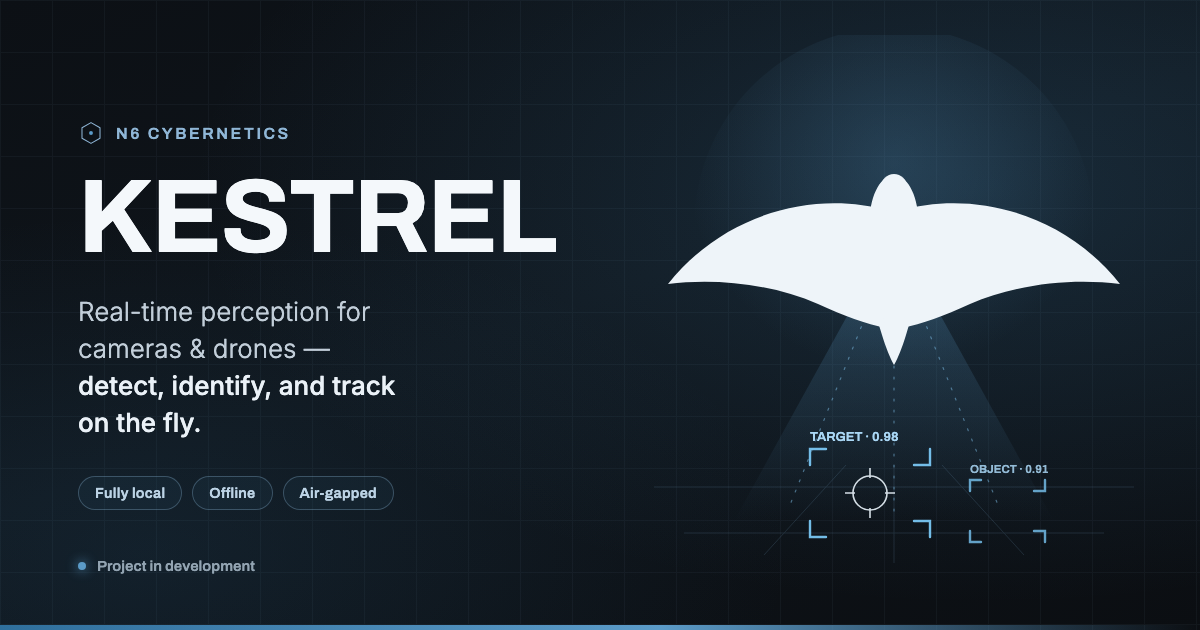
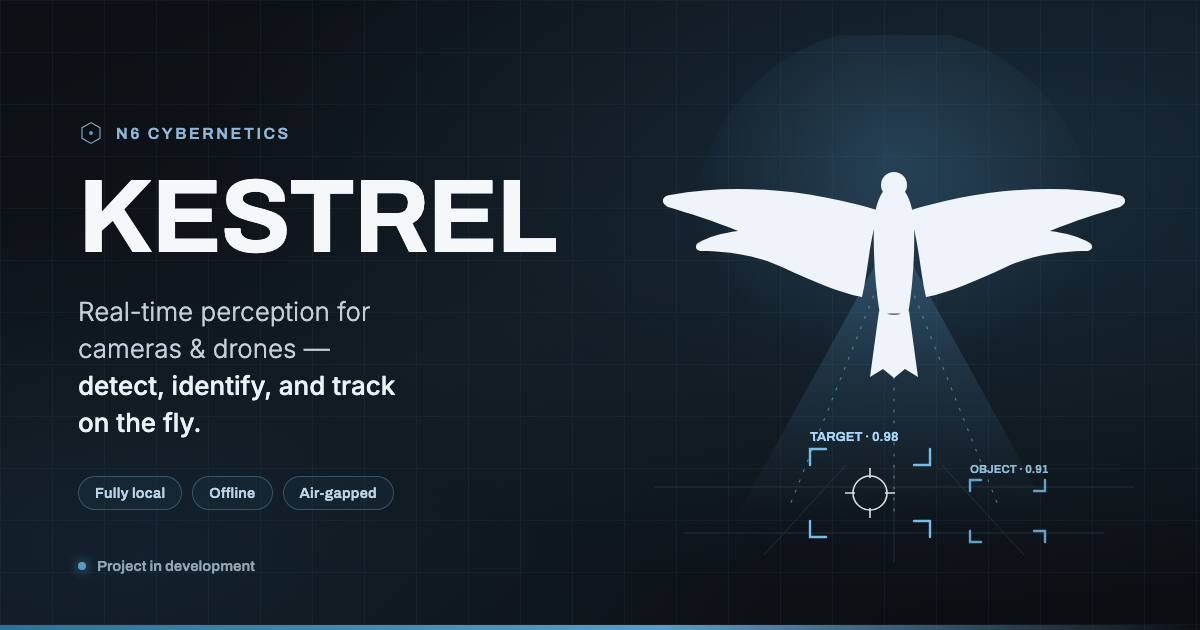
Fix Kestrel illustration: redesign silhouette as a clear bird of prey
The previous falcon read as a manta ray (flat swept fins, thin whip tail).
Redesigned with a distinct head, feathered spread wings, and a fanned tail —
across the OG image, the project page, and the homepage card.

Changed region(s): [[0.555, 0.2714, 0.9558, 0.6032]]

diff --git a/index.html b/index.html
@@ -330,11 +330,13 @@ footer{border-top:1px solid var(--line);padding:56px 0 40px;background:var(--bg)
           <g stroke="#79c6f2" stroke-width="2.4" stroke-linecap="round" fill="none"><path d="M196 430 v-16 h16 M300 430 h16 v-16 M300 486 h16 v16 M196 486 v16 h16" opacity="0.95"/></g>
           <g stroke="#eaf4fb" stroke-width="1.6" opacity="0.9"><circle cx="256" cy="458" r="17" fill="none"/><path d="M256 433 v10 M256 473 v10 M231 458 h10 M281 458 h-10"/></g>
           <g fill="#eef4f9">
-            <path d="M280 140 C 296 142, 304 163, 305 190 C 306 226, 302 270, 292 300 C 288 313, 284 323, 280 330 C 276 323, 272 313, 268 300 C 258 270, 254 226, 255 190 C 256 163, 264 142, 280 140 Z"/>
-            <circle cx="280" cy="152" r="13"/>
-            <path d="M285 176 C 356 155, 448 176, 506 249 C 458 243, 402 249, 356 269 C 330 281, 308 289, 288 293 C 298 255, 300 208, 285 176 Z"/>
-            <path d="M275 176 C 204 155, 112 176, 54 249 C 102 243, 158 249, 204 269 C 230 281, 252 289, 272 293 C 262 255, 260 208, 275 176 Z"/>
-          </g>
+  <path d="M265 276 L256 342 L269 334 L280 343 L291 334 L304 342 L295 276 C 286 281, 274 281, 265 276 Z"/>
+  <path d="M280 150 C 292 151, 299 168, 300 190 C 301 216, 299 250, 294 280 C 288 278, 272 278, 266 280 C 261 250, 259 216, 260 190 C 261 168, 268 151, 280 150 Z"/>
+  <circle cx="280" cy="150" r="13"/>
+  <path d="M280 161 c 7 3 6 12 1 15 c 1 -4 -1 -6 -1 -6 c 0 0 -2 2 -1 6 c -5 -3 -6 -12 1 -15 Z"/>
+  <path d="M294 176 C 352 158, 430 146, 504 160 C 512 161, 514 168, 506 172 C 486 178, 460 186, 436 196 C 452 198, 466 202, 476 208 C 480 211, 478 216, 472 216 C 448 216, 418 220, 392 232 C 362 246, 334 258, 312 262 C 305 232, 305 202, 294 176 Z"/>
+  <path d="M266 176 C 208 158, 130 146, 56 160 C 48 161, 46 168, 54 172 C 74 178, 100 186, 124 196 C 108 198, 94 202, 84 208 C 80 211, 82 216, 88 216 C 112 216, 142 220, 168 232 C 198 246, 226 258, 248 262 C 255 232, 255 202, 266 176 Z"/>
+</g>
         </svg>
       </div>
       <div class="proj-body">

diff --git a/kestrel.html b/kestrel.html
@@ -234,11 +234,13 @@ footer{border-top:1px solid var(--line);padding:52px 0 40px;background:var(--bg)
             <path d="M256 433 v10 M256 473 v10 M231 458 h10 M281 458 h-10"/>
           </g>
           <g fill="#eef4f9">
-            <path d="M280 140 C 296 142, 304 163, 305 190 C 306 226, 302 270, 292 300 C 288 313, 284 323, 280 330 C 276 323, 272 313, 268 300 C 258 270, 254 226, 255 190 C 256 163, 264 142, 280 140 Z"/>
-            <circle cx="280" cy="152" r="13"/>
-            <path d="M285 176 C 356 155, 448 176, 506 249 C 458 243, 402 249, 356 269 C 330 281, 308 289, 288 293 C 298 255, 300 208, 285 176 Z"/>
-            <path d="M275 176 C 204 155, 112 176, 54 249 C 102 243, 158 249, 204 269 C 230 281, 252 289, 272 293 C 262 255, 260 208, 275 176 Z"/>
-          </g>
+  <path d="M265 276 L256 342 L269 334 L280 343 L291 334 L304 342 L295 276 C 286 281, 274 281, 265 276 Z"/>
+  <path d="M280 150 C 292 151, 299 168, 300 190 C 301 216, 299 250, 294 280 C 288 278, 272 278, 266 280 C 261 250, 259 216, 260 190 C 261 168, 268 151, 280 150 Z"/>
+  <circle cx="280" cy="150" r="13"/>
+  <path d="M280 161 c 7 3 6 12 1 15 c 1 -4 -1 -6 -1 -6 c 0 0 -2 2 -1 6 c -5 -3 -6 -12 1 -15 Z"/>
+  <path d="M294 176 C 352 158, 430 146, 504 160 C 512 161, 514 168, 506 172 C 486 178, 460 186, 436 196 C 452 198, 466 202, 476 208 C 480 211, 478 216, 472 216 C 448 216, 418 220, 392 232 C 362 246, 334 258, 312 262 C 305 232, 305 202, 294 176 Z"/>
+  <path d="M266 176 C 208 158, 130 146, 56 160 C 48 161, 46 168, 54 172 C 74 178, 100 186, 124 196 C 108 198, 94 202, 84 208 C 80 211, 82 216, 88 216 C 112 216, 142 220, 168 232 C 198 246, 226 258, 248 262 C 255 232, 255 202, 266 176 Z"/>
+</g>
         </svg>
         <div class="cap">Perceive · Track · Recognize</div>
       </div>